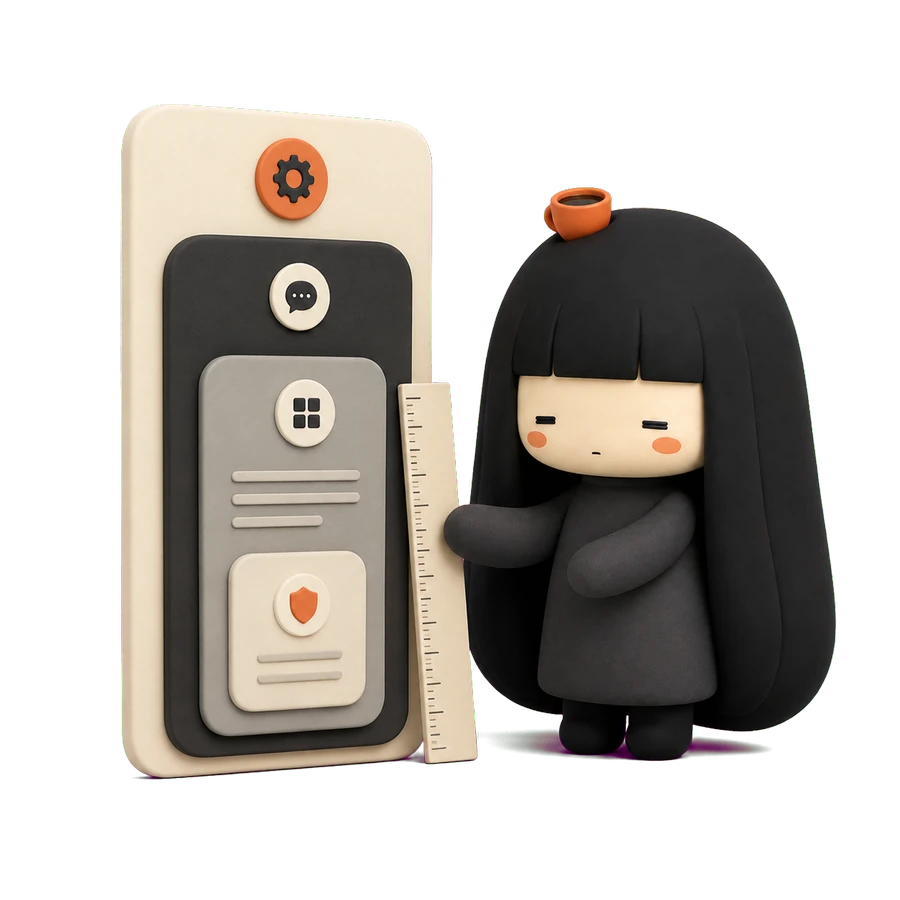
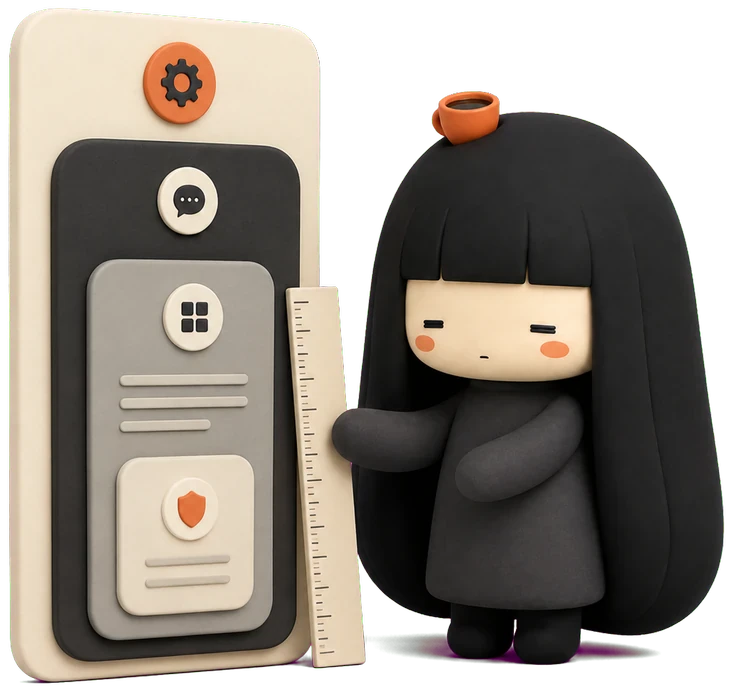
구도를 다시 잡았다 — 사장님이 짚어 주신 셋
① 「빠진 화면」(03)은 뺐다.
   그 어두운 칸은 이미 «글 + ✕목록» 두 칸으로 꽉 차 있었다. 셋째 칸을 끼우니 그림이
   280px 로 눌려 캐릭터가 손톱만 해졌다. 게다가 그림이 말하는 것(칸이 뚫린 화면들)과
   옆의 ✕목록이 같은 말이라, 같은 말을 두 번 해서 둘 다 힘이 빠졌다.
   → 어두운 칸은 예전 두 칸 그대로 돌아갔다. 그림 파일은 public/character 에 남겨 둔다.

② 유튜브 절은 «카피 오른쪽 + 영상 1단»으로 되돌렸다.
   영상 왼쪽에 세웠더니 16:9 영상이 워낙 커서 그림이 곁다리로 보였다.
   위 「한 줄 컨셉」·아래 「대신 눌러봐 드려요」와 같은 짜임으로 맞췄다 —
   제목·리드는 왼쪽, 그림은 오른쪽, 알맹이(영상)는 그 밑에 폭을 다 쓴다.

③ 사용가이드는 그림을 «설명 오른쪽»으로 옮겼다.
   처음엔 다운로드 칩 «밑»에 300px 로 놓았다. 그랬더니 글 칸이 훌쩍 길어져 옆의
   샘플 화면이 가운데에 붕 뜨고 위아래가 휑했다. 세로로 쌓지 말고 옆에 세우니
   글 칸이 안 길어져 샘플과 키가 맞는다. 페이지가 5353 → 4425px 로 줄었다.

그리고 뿌리가 하나 더 있었다 — 그림 안의 «투명 여백».

  01 41%  ·  05 47%  ·  10 41%  ·  08 37%  ·  열 장 평균 29%

칸을 300px 로 줘도 사방이 비어 있어 캐릭터는 200px 로 보였다. 「붕 떠 보인다」가
그 탓이었다. 알파를 날것으로 받아 «알맹이 네모»를 직접 세고(cropdetect 는 한 장짜리로는
아무것도 안 찍는다) 사방 8px 만 남겨 잘랐다. 코드의 width/height 도 잘라 낸 실제 크기로
다시 적었다 — 안 맞으면 그림 뜨기 전에 자리를 잘못 잡아 글이 한 번 튄다.

재 봤다 — tsc·eslint 통과. 1440·375 두 폭으로 홈과 가이드를 다시 찍어 눈으로 봤다.
/ · /deliverables 모두 200. 파일 크기는 600KB 그대로다.

(cherry picked from commit 2598d7b25c1ca8fcbbf740e45193b5251db8c5eb)

diff --git a/app/(marketing)/home-landing.tsx b/app/(marketing)/home-landing.tsx
@@ -72,8 +72,8 @@ export function HomeLanding({ packs }: { packs: AiPackCard[] }) {
                 <Image
                   src="/character/01_home_hero_blueprint_qa.webp"
                   alt="설계도를 들고 화면을 검수하는 카페인컬러 캐릭터"
-                  width={1200}
-                  height={1161}
+                  width={925}
+                  height={885}
                   priority
                   sizes="(max-width: 1180px) 320px, 520px"
                 />
@@ -184,8 +184,8 @@ export function HomeLanding({ packs }: { packs: AiPackCard[] }) {
               <Image
                 src="/character/02_home_concept_to_aipack.webp"
                 alt="한 줄 컨셉을 메뉴·화면 목록·기능정의·흐름·일정으로 뽑아내는 카페인컬러 캐릭터"
-                width={1000}
-                height={1000}
+                width={899}
+                height={967}
                 sizes="(max-width: 999px) 300px, 400px"
               />
             </div>
@@ -243,19 +243,13 @@ export function HomeLanding({ packs }: { packs: AiPackCard[] }) {
                 열어야 할 화면이 통째로 비어 있었습니다.
               </p>
             </div>
-            {/* 「빠진 화면」을 그림으로 — 칸이 뚫린 화면들이 그 말 그대로다.
-                ⚠ 좁을 때는 display:none 이라 «칸 자체가 없어진다». 그래야 지금까지의
-                   두 칸(글 + ✕목록)이 한 자도 안 밀린다. 폭을 0으로 줄이는 식으로 하면
-                   gap 이 남아 두 칸 사이가 벌어진다. */}
-            <div className="thesis-figure">
-              <Image
-                src="/character/03_home_missing_screens.webp"
-                alt="화면 목록에서 군데군데 빠져 있는 칸을 가리키는 카페인컬러 캐릭터"
-                width={900}
-                height={600}
-                sizes="280px"
-              />
-            </div>
+            {/* ⛔ 여기에 캐릭터(03_home_missing_screens)를 넣었다가 뺐다 — 2026-08-25.
+                사장님: 「이 이미지는 위치 별로인거 같아.」 맞는 말씀이었다. 까닭은 둘이다.
+                  ① 이 어두운 칸은 이미 «글 + ✕목록» 두 칸으로 꽉 찼다. 셋째 칸을 끼우니
+                     그림이 280px 로 눌려 캐릭터가 손톱만 해졌다.
+                  ② 그림이 말하는 것(칸이 뚫린 화면들)과 옆의 ✕목록이 «같은 말»이다.
+                     같은 말을 두 번 하면 둘 다 힘이 빠진다.
+                → 그림 파일은 public/character 에 그대로 둔다. 쓸 자리가 생기면 꺼내 쓴다. */}
             <div className="ex-list">
               <div className="ex-item">
                 <span className="x">✕</span> 팝업을 등록할 화면
@@ -302,29 +296,35 @@ export function HomeLanding({ packs }: { packs: AiPackCard[] }) {
               머리글을 sc-cap(19px)에서 h2 로 올렸다(2026-08-14). 절이 갈라지면서
               이 절의 제일 큰 글자가 19px 이 되어 버렸는데, 옆 절 제목이 58px 이라
               혼자 «잘린 조각»처럼 보였다. 문장은 그대로 옮겨 왔고 새로 짓지 않았다. */}
+          {/* 그림은 «카피 오른쪽», 영상은 원래대로 한 단 (2026-08-25 사장님 지시).
+              처음엔 영상 왼쪽에 세웠는데 16:9 영상이 워낙 커서 그림이 곁다리로 보였다.
+              위 「한 줄 컨셉」·아래 「대신 눌러봐 드려요」와 같은 짜임으로 맞춘다 —
+              제목·리드는 왼쪽, 그림은 오른쪽, 알맹이는 그 밑에 폭을 다 쓴다. */}
+          <div className="proof-intro">
+            <div>
           <h2>
             AI팩을 주면<br />
             <span className="o">이렇게 됩니다.</span>
           </h2>
           {/* 바로 위 절에서 「빠진 것」으로 말해 놓고 여기서 144개를 자랑하면 힘이 상쇄된다.
               숫자를 근거가 아니라 배경으로 밀어낸다 — 앞에 오는 것은 「빠뜨린 화면까지」다. */}
-          <p className="lead">
-            지시서 파일 하나를 Claude Code에 넣고 돌린 기록이에요. 위에 적은 빠지기 쉬운 화면까지
-            한 벌로 넣어 돌렸고, 약 40분 만에 화면 144개가 만들어졌습니다.
-          </p>
-
-          <div className="showcase">
-            {/* 영상 왼쪽 — 「스펙팩 한 벌 → 화면 여러 장」을 그림이 먼저 말한다.
-                영상은 눌러야 보이지만 그림은 스치기만 해도 읽힌다. */}
-            <div className="sc-figure">
+              <p className="lead">
+                지시서 파일 하나를 Claude Code에 넣고 돌린 기록이에요. 위에 적은 빠지기 쉬운 화면까지
+                한 벌로 넣어 돌렸고, 약 40분 만에 화면 144개가 만들어졌습니다.
+              </p>
+            </div>
+            <div className="proof-figure">
               <Image
                 src="/character/04_home_spec_to_screens.webp"
                 alt="스펙팩 한 벌을 넣어 화면을 잔뜩 만들어 내는 카페인컬러 캐릭터"
                 width={1000}
-                height={1000}
-                sizes="(max-width: 1023px) 280px, 340px"
+                height={914}
+                sizes="(max-width: 999px) 300px, 380px"
               />
             </div>
+          </div>
+
+          <div className="showcase">
             <div className="sc-frame">
               <iframe
                 src={`https://www.youtube-nocookie.com/embed/${SHOWCASE_VIDEO_ID}`}
@@ -399,8 +399,8 @@ export function HomeLanding({ packs }: { packs: AiPackCard[] }) {
               <Image
                 src="/character/05_home_site_inspection.webp"
                 alt="공개 화면을 통과·실패·주의로 가려 검수하는 카페인컬러 캐릭터"
-                width={1000}
-                height={1000}
+                width={783}
+                height={681}
                 sizes="(max-width: 999px) 300px, 380px"
               />
             </div>
@@ -909,8 +909,7 @@ export function HomeLanding({ packs }: { packs: AiPackCard[] }) {
            종이 여백 위에 그대로 두는 편이 소품이 살아난다. */
         .cc :global(.plan-figure img),
         .cc :global(.verify-figure img),
-        .cc :global(.sc-figure img),
-        .cc :global(.thesis-figure img) {
+        .cc :global(.proof-figure img) {
           width: 100%;
           height: auto;
           object-fit: contain;
@@ -976,24 +975,27 @@ export function HomeLanding({ packs }: { packs: AiPackCard[] }) {
         .sec-proof h2 .o {
           color: var(--orange);
         }
+        /* 영상은 «한 단»이다 — 폭을 다 쓴다 (2026-08-25 사장님 지시로 되돌렸다) */
         .showcase {
           margin-top: 40px;
+        }
+        .proof-intro {
           display: grid;
-          gap: 24px;
+          gap: 20px;
         }
-        .sc-figure {
+        .proof-figure {
           justify-self: center;
-          width: min(280px, 75%);
+          width: min(300px, 80%);
         }
-        @media (min-width: 1024px) {
-          .showcase {
-            grid-template-columns: 340px minmax(0, 1fr);
-            gap: 36px;
+        @media (min-width: 1000px) {
+          .proof-intro {
+            grid-template-columns: minmax(0, 1fr) 380px;
+            gap: 48px;
             align-items: center;
           }
-          .sc-figure {
-            justify-self: start;
-            width: 340px;
+          .proof-figure {
+            justify-self: end;
+            width: 380px;
           }
         }
         .sc-frame {
@@ -1026,19 +1028,6 @@ export function HomeLanding({ packs }: { packs: AiPackCard[] }) {
         @media (max-width: 720px) {
           .thesis {
             grid-template-columns: 1fr;
-          }
-        }
-        /* 그림 칸은 «넓을 때만» 생긴다. display:none 이라 좁을 때는 칸 자체가 없어
-           지금까지의 두 칸(글 + ✕목록)이 한 자도 안 밀린다. */
-        .thesis-figure {
-          display: none;
-        }
-        @media (min-width: 1120px) {
-          .thesis {
-            grid-template-columns: 1fr 280px auto;
-          }
-          .thesis-figure {
-            display: block;
           }
         }
         .thesis h3 {

diff --git a/app/(marketing)/deliverables/deliverables-tabs.tsx b/app/(marketing)/deliverables/deliverables-tabs.tsx
@@ -44,11 +44,11 @@ type Deliverable = {
   role: string;
   formats: string[];
   mockup: React.ReactNode;
-  /* 캐릭터 그림 — 글 칸 아래에 놓는다 (2026-08-25 사장님 지시).
-     ⚠ 오른쪽 칸은 이미 «샘플 화면»이 차지하고 있다. 거기에 캐릭터까지 넣으면 둘이 싸운다.
-       글 칸은 대개 샘플보다 짧아 밑이 비는데, 그 자리가 그림이 설 자리다.
-     ⚠ 모든 항목에 넣지 않는다. 여덟 중 넷만이다 — 매 칸마다 있으면 눈이 쉴 데가 없다. */
-  char?: { src: string; alt: string };
+  /* 캐릭터 그림 — 설명 «오른쪽»에 나란히 세운다 (자세한 까닭은 아래 렌더 자리 주석에).
+     ⚠ 모든 항목에 넣지 않는다. 여덟 중 넷만이다 — 매 칸마다 있으면 눈이 쉴 데가 없다.
+     ⚠ w·h 는 «잘라 낸 뒤»의 실제 크기다. 그림을 다시 받으면 이 값도 다시 잰다 —
+       어긋나면 그림이 뜨기 전에 자리를 잘못 잡아 글이 한 번 튄다. */
+  char?: { src: string; alt: string; w: number; h: number };
 };
 
 const DELIVERABLES: Deliverable[] = [
@@ -61,6 +61,8 @@ const DELIVERABLES: Deliverable[] = [
     mockup: <MenuTreeMockup />,
     char: {
       src: "/character/06_guide_menu_structure.webp",
+      w: 891,
+      h: 644,
       alt: "메뉴와 화면이 층층이 갈라지는 트리를 살펴보는 카페인컬러 캐릭터",
     },
   },
@@ -73,6 +75,8 @@ const DELIVERABLES: Deliverable[] = [
     mockup: <ScreenListMockup />,
     char: {
       src: "/character/07_guide_ia_screen_list.webp",
+      w: 812,
+      h: 859,
       alt: "화면 하나하나를 기능·이동·프롬프트로 줄줄이 정리하는 카페인컬러 캐릭터",
     },
   },
@@ -85,6 +89,8 @@ const DELIVERABLES: Deliverable[] = [
     mockup: <SpecMockup />,
     char: {
       src: "/character/08_guide_function_definition.webp",
+      w: 733,
+      h: 692,
       alt: "요건을 자로 재듯 갈래별로 나눠 적는 카페인컬러 캐릭터",
     },
   },
@@ -131,6 +137,8 @@ const DELIVERABLES: Deliverable[] = [
     mockup: <SpecPackMockup />,
     char: {
       src: "/character/10_guide_ai_build_spec.webp",
+      w: 804,
+      h: 591,
       alt: "스펙 문서 한 벌을 AI 코딩 도구에 넣어 화면을 뽑아내는 카페인컬러 캐릭터",
     },
   },
@@ -218,29 +226,40 @@ function PlanningDeliverables() {
                   <span className="font-mono text-sm text-muted-foreground">0{i + 1}</span>
                 </div>
                 <h2 className="mt-4 text-2xl font-bold text-foreground">{d.name}</h2>
-                <p className="mt-3 leading-relaxed text-muted-foreground">{d.role}</p>
-                <div className="mt-5 flex flex-wrap gap-2">
-                  {d.formats.map((f) => (
-                    <span
-                      key={f}
-                      className="rounded-full border border-border bg-background px-3 py-1 text-xs font-medium text-foreground"
-                    >
-                      {f} 다운로드
-                    </span>
-                  ))}
-                </div>
-                {d.char && (
-                  <div className="mt-8 w-[240px] max-w-full sm:mt-10 sm:w-[300px]">
-                    <Image
-                      src={d.char.src}
-                      alt={d.char.alt}
-                      width={900}
-                      height={900}
-                      sizes="(max-width: 640px) 240px, 300px"
-                      className="h-auto w-full object-contain"
-                    />
+                {/* 설명 «오른쪽»에 캐릭터를 붙인다 (2026-08-25 사장님 지시로 다시 잡았다).
+                    ⛔ 처음엔 다운로드 칩 «밑»에 300px 로 놓았다. 그랬더니 글 칸이 훌쩍
+                       길어져, 옆의 샘플 화면이 가운데에 붕 뜨고 위아래가 휑했다.
+                       사장님: 「구도 생각하고 넣어줘」 — 맞는 말씀이었다.
+                    → 세로로 쌓지 않고 «옆»에 세운다. 글 칸이 안 길어지니 샘플과 키가 맞는다.
+                    ⚠ 오른쪽 칸은 이미 샘플 화면이 쓰고 있다. 거기에 캐릭터까지 넣으면
+                      둘이 싸운다 — 캐릭터는 어디까지나 글 칸 안에 머문다. */}
+                <div className="mt-3 flex flex-col gap-6 sm:flex-row sm:items-center sm:gap-7">
+                  <div className="min-w-0 flex-1">
+                    <p className="leading-relaxed text-muted-foreground">{d.role}</p>
+                    <div className="mt-5 flex flex-wrap gap-2">
+                      {d.formats.map((f) => (
+                        <span
+                          key={f}
+                          className="rounded-full border border-border bg-background px-3 py-1 text-xs font-medium text-foreground"
+                        >
+                          {f} 다운로드
+                        </span>
+                      ))}
+                    </div>
                   </div>
-                )}
+                  {d.char && (
+                    <div className="w-[200px] shrink-0 max-sm:mx-auto sm:w-[190px] lg:w-[210px]">
+                      <Image
+                        src={d.char.src}
+                        alt={d.char.alt}
+                        width={d.char.w}
+                        height={d.char.h}
+                        sizes="210px"
+                        className="h-auto w-full object-contain"
+                      />
+                    </div>
+                  )}
+                </div>
               </div>
               <div className={reversed ? "lg:order-1" : ""}>{d.mockup}</div>
             </div>
@@ -249,13 +268,13 @@ function PlanningDeliverables() {
           {사이띠 && (
             <section className="border-b border-border">
               <div className="mx-auto flex max-w-[1440px] flex-col items-center gap-8 px-6 py-14 md:flex-row md:gap-14">
-                <div className="w-[260px] max-w-full shrink-0 md:w-[360px]">
+                <div className="w-[260px] max-w-full shrink-0 md:w-[340px]">
                   <Image
                     src="/character/09_guide_flow_wbs.webp"
                     alt="화면 이동 흐름도와 제작 일정을 나란히 놓고 함께 보는 카페인컬러 캐릭터"
-                    width={1120}
-                    height={896}
-                    sizes="(max-width: 768px) 260px, 360px"
+                    width={862}
+                    height={539}
+                    sizes="(max-width: 768px) 260px, 340px"
                     className="h-auto w-full object-contain"
                   />
                 </div>
